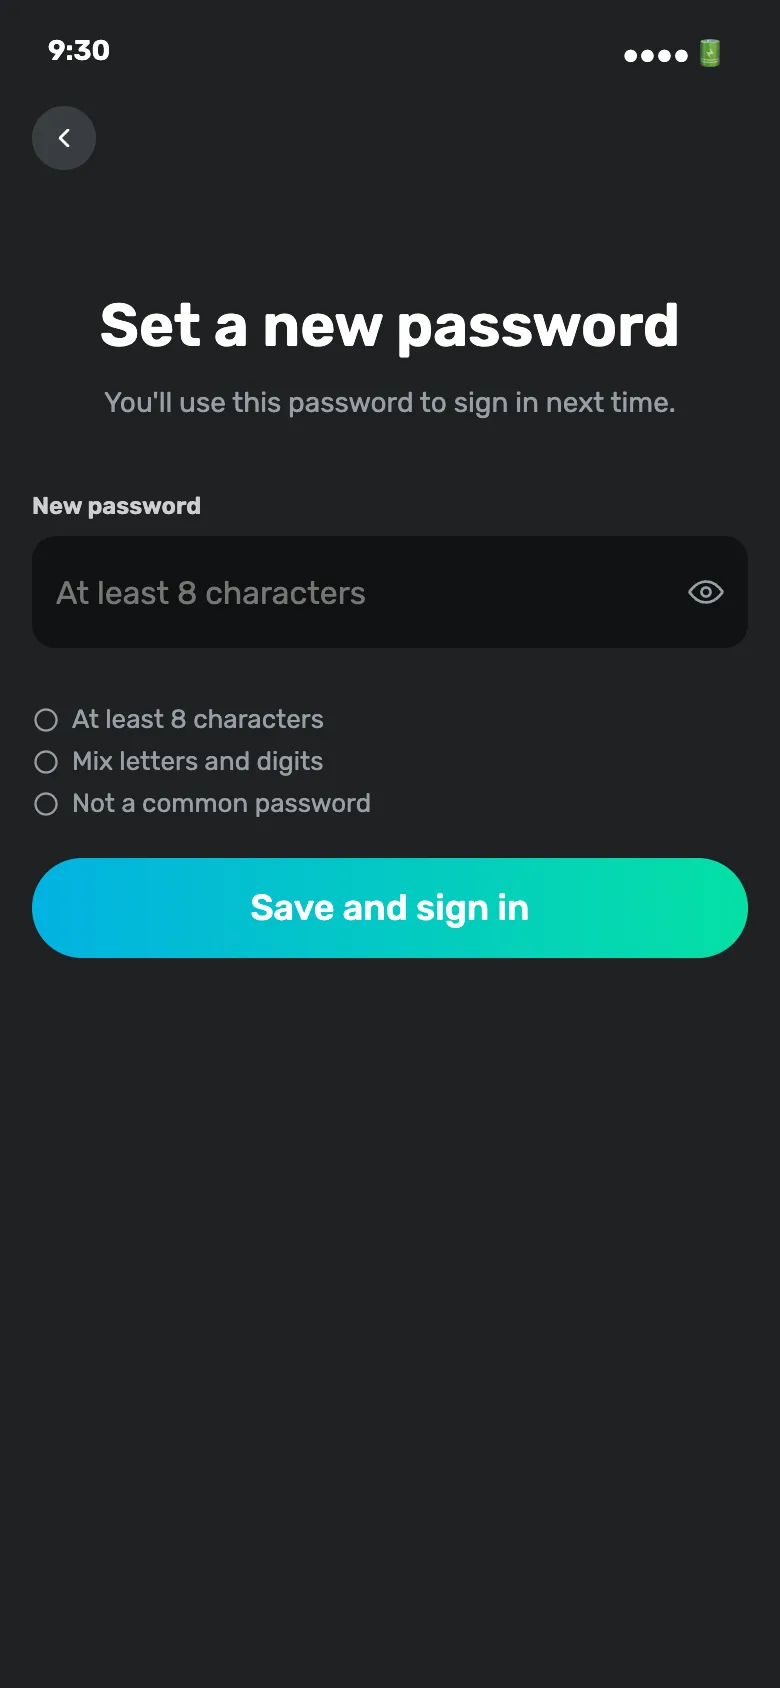
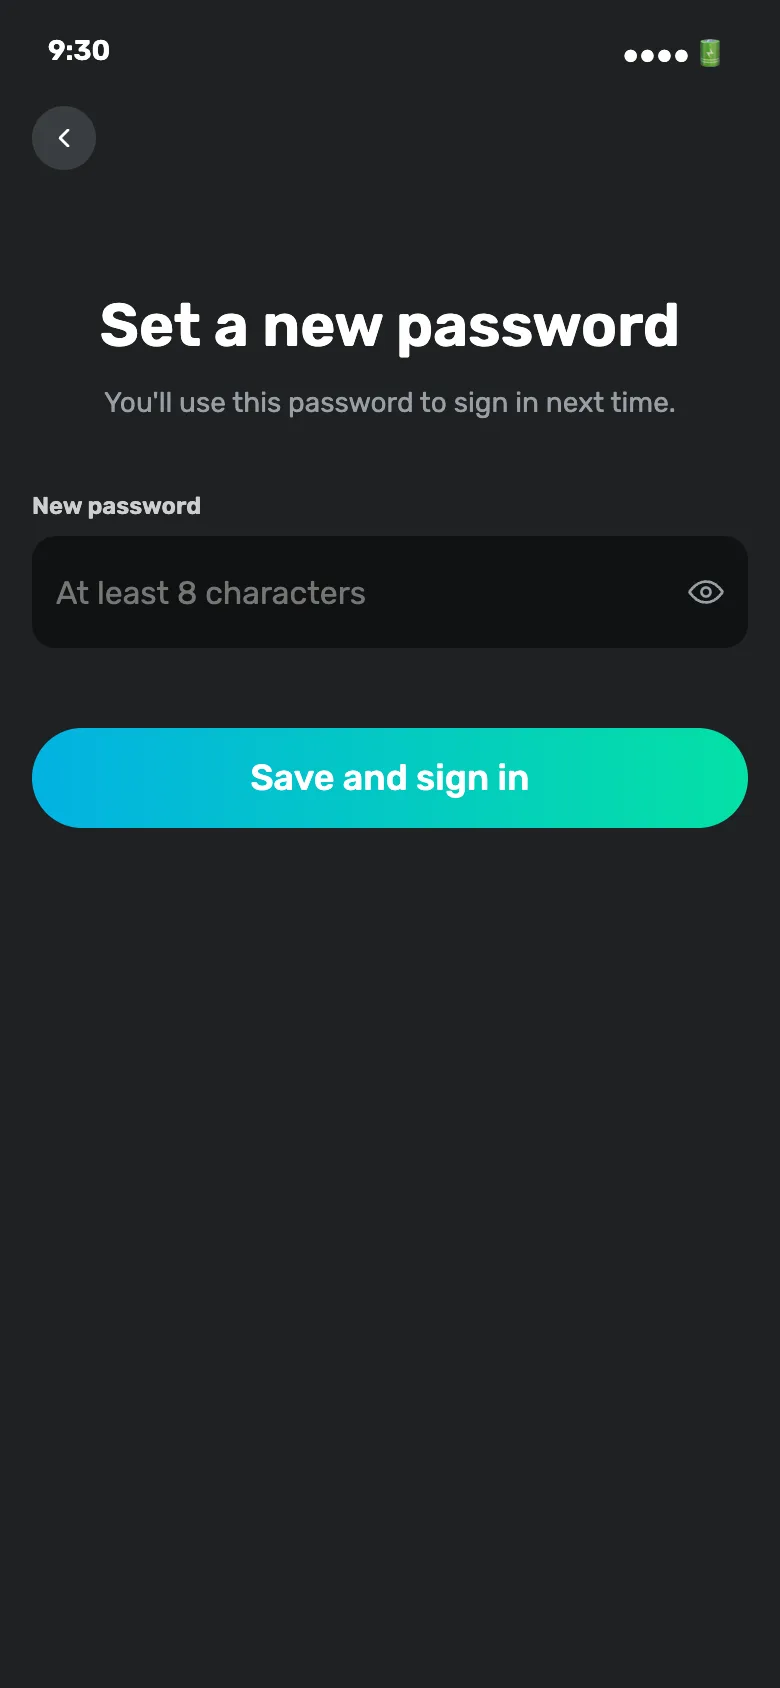
Auth: the password rules wait on the reset screen too
Same treatment as sign-up: hidden until a rule actually passes or fails, not
deleted — the weak-password and all-valid states still show it, so nothing is
lost, it just stops greeting you with three grey circles before you have typed
anything.

I had argued for an exception here, that the reset screen should keep the list
permanently because the whole screen is the password. Withdrawn. An exception
has to be worth what it costs, and this one cost the same field behaving
differently in two places — which is exactly the drift I have spent the last
few commits undoing elsewhere in this file.

The rule is now on .au-pw-rules itself rather than keyed to a screen id, for
the same reason the page head was: a module-level decision on a screen-level
selector is drift waiting to happen.

Changed region(s): [[0.0308, 0.4005, 0.9846, 0.5853]]

diff --git a/prototypes/flows/shared/auth.html b/prototypes/flows/shared/auth.html
@@ -153,14 +153,19 @@
   .au-pw-rule svg { width: 14px; height: 14px; flex-shrink: 0; }
   .au-pw-rule.ok { color: var(--fit-teal-500); }
   .au-pw-rule.fail { color: var(--fit-red-400); }
-  /* Sign-up does not show the list until the password has been judged: three grey
-     circles above the CTA, at the moment you have typed nothing, crowd the one
-     thing the screen is for. It appears the moment a rule passes or fails. On the
-     reset screen it stays visible — there the whole screen IS the password. */
-  #s-signup-email .au-pw-rules { display: none; }
-  #s-signup-email[data-au-state="weak-password"] .au-pw-rules,
-  #s-signup-email[data-au-state="all-valid"] .au-pw-rules,
-  #s-signup-email[data-au-state="loading"] .au-pw-rules { display: flex; }
+  /* The list does not show until the password has been judged. Three grey circles
+     above the CTA, at the moment you have typed nothing, crowd the one thing the
+     screen is for; it appears when a rule actually passes or fails.
+     I had argued for keeping it permanently on the reset screen — "there the whole
+     screen IS the password" — and that was wrong for a reason worth remembering:
+     an exception has to be worth what it costs, and the cost here is that the same
+     field behaves differently in two places. Rules you only learn by failing are a
+     real problem, but they are the same problem on both screens, and it is solved
+     by showing the list the moment there is something to judge. */
+  .au-pw-rules { display: none; }
+  [data-au-state="weak-password"] .au-pw-rules,
+  [data-au-state="all-valid"] .au-pw-rules,
+  [data-au-state="loading"] .au-pw-rules { display: flex; }
 
   /* Bottom toggle (Sign in / Sign up link) inside fit-phone-footer */
   .au-toggle-row {
@@ -1353,7 +1358,7 @@
     <p><strong>iOS ref:</strong> <code>Authentication/ForgotPassword/ForgotPasswordView.swift</code> (newPassword state).</p>
     <ul>
       <li><strong>Single new-password field</strong> (no "Confirm new password") — eye-toggle covers the typo-prevention use case + reduces friction. Server hashes whatever's submitted; if user typo'd, they'll Forgot Password again. Same approach as account-access.md change-password.</li>
-      <li><strong>Rules list</strong> reuses page-local <code>au-pw-rules</code> / <code>au-pw-rule</code> from sign-up email form.</li>
+      <li><strong>Rules list</strong> reuses page-local <code>au-pw-rules</code> / <code>au-pw-rule</code> from the sign-up form &mdash; and now behaves the same way: <strong>hidden until the password has been judged</strong> (2026-08-20). I had argued for keeping it permanently visible here, since the whole screen is the password. Wrong, and worth remembering why: an exception has to be worth what it costs, and this one cost the same field behaving differently in two places.</li>
       <li><strong>CTA copy:</strong> "Save and sign in" — single action that does both. No separate sign-in step after.</li>
       <li><strong>OTP token</strong> from step 2 is short-lived JWT in client memory, sent in the Save request body. Backend verifies before applying password change.</li>
     </ul>

diff --git a/prototypes/board/board-data.js b/prototypes/board/board-data.js
@@ -10,7 +10,7 @@ window.FIT_BOARD = {
       "screens": [
         {
           "id": "s-role-pick",
-          "hash": "98759911f7ac",
+          "hash": "3bb3a3d6f481",
           "title": "Role pick",
           "inApp": "",
           "status": "canon",
@@ -29,7 +29,7 @@ window.FIT_BOARD = {
         },
         {
           "id": "s-signup-email",
-          "hash": "d3864c29fbfa",
+          "hash": "bad33dbe5a2b",
           "title": "Sign up",
           "inApp": "",
           "status": "canon",
@@ -48,7 +48,7 @@ window.FIT_BOARD = {
         },
         {
           "id": "s-signin-email",
-          "hash": "cc29d816c5ff",
+          "hash": "6f9917e211d1",
           "title": "Sign in",
           "inApp": "",
           "status": "canon",
@@ -67,7 +67,7 @@ window.FIT_BOARD = {
         },
         {
           "id": "s-forgot-email",
-          "hash": "0c931cc8d0c2",
+          "hash": "032608931693",
           "title": "Step 1 · enter email",
           "inApp": "",
           "status": "canon",
@@ -86,7 +86,7 @@ window.FIT_BOARD = {
         },
         {
           "id": "s-forgot-otp",
-          "hash": "21ad88da9382",
+          "hash": "1f5872947615",
           "title": "Step 2 · OTP code",
           "inApp": "",
           "status": "canon",
@@ -105,7 +105,7 @@ window.FIT_BOARD = {
         },
         {
           "id": "s-forgot-new",
-          "hash": "d0bc16c80137",
+          "hash": "ba3b46449283",
           "title": "Step 3 · new password",
           "inApp": "",
           "status": "canon",
@@ -124,7 +124,7 @@ window.FIT_BOARD = {
         },
         {
           "id": "s-phone-enter",
-          "hash": "75094430cf72",
+          "hash": "9266a6fe974c",
           "title": "Phone · enter number",
           "inApp": "",
           "status": "canon",
@@ -144,7 +144,7 @@ window.FIT_BOARD = {
         },
         {
           "id": "s-phone-otp",
-          "hash": "adff41207192",
+          "hash": "1188ecf46879",
           "title": "Phone · OTP code",
           "inApp": "",
           "status": "canon",
@@ -164,7 +164,7 @@ window.FIT_BOARD = {
         },
         {
           "id": "s-country-picker",
-          "hash": "8c928247e605",
+          "hash": "ecb7bf52b86c",
           "title": "Country picker",
           "inApp": "Country or region",
           "status": "canon",

diff --git a/specs/authentication.md b/specs/authentication.md
@@ -137,10 +137,12 @@ screen just shows everything available."* The prototype had two.
   format hint rather than a name (phone number, the recovery screens).
 - **No "repeat password".** A second field to catch a typo the eye toggle already
   catches, on a password recoverable by email.
-- **No password-rules list on arrival.** Three grey circles above the CTA, before
-  anything has been typed, crowd the one thing the screen is for. The list appears when
-  a rule actually passes or fails. It stays permanently visible on the reset screen,
-  where the whole screen is the password.
+- **No password-rules list on arrival**, on **both** screens that take a password —
+  sign-up and *Set a new password*. Three grey circles above the CTA, before anything has
+  been typed, crowd the one thing the screen is for; the list appears when a rule actually
+  passes or fails. The reset screen was briefly given an exception ("there the whole screen
+  is the password") and it was withdrawn: an exception has to be worth what it costs, and
+  this one cost the same field behaving differently in two places.
 - **`Forgot password?` sits under the password field**, right-aligned. It is about that
   field; below the CTA it read as an afterthought to signing in.
 
